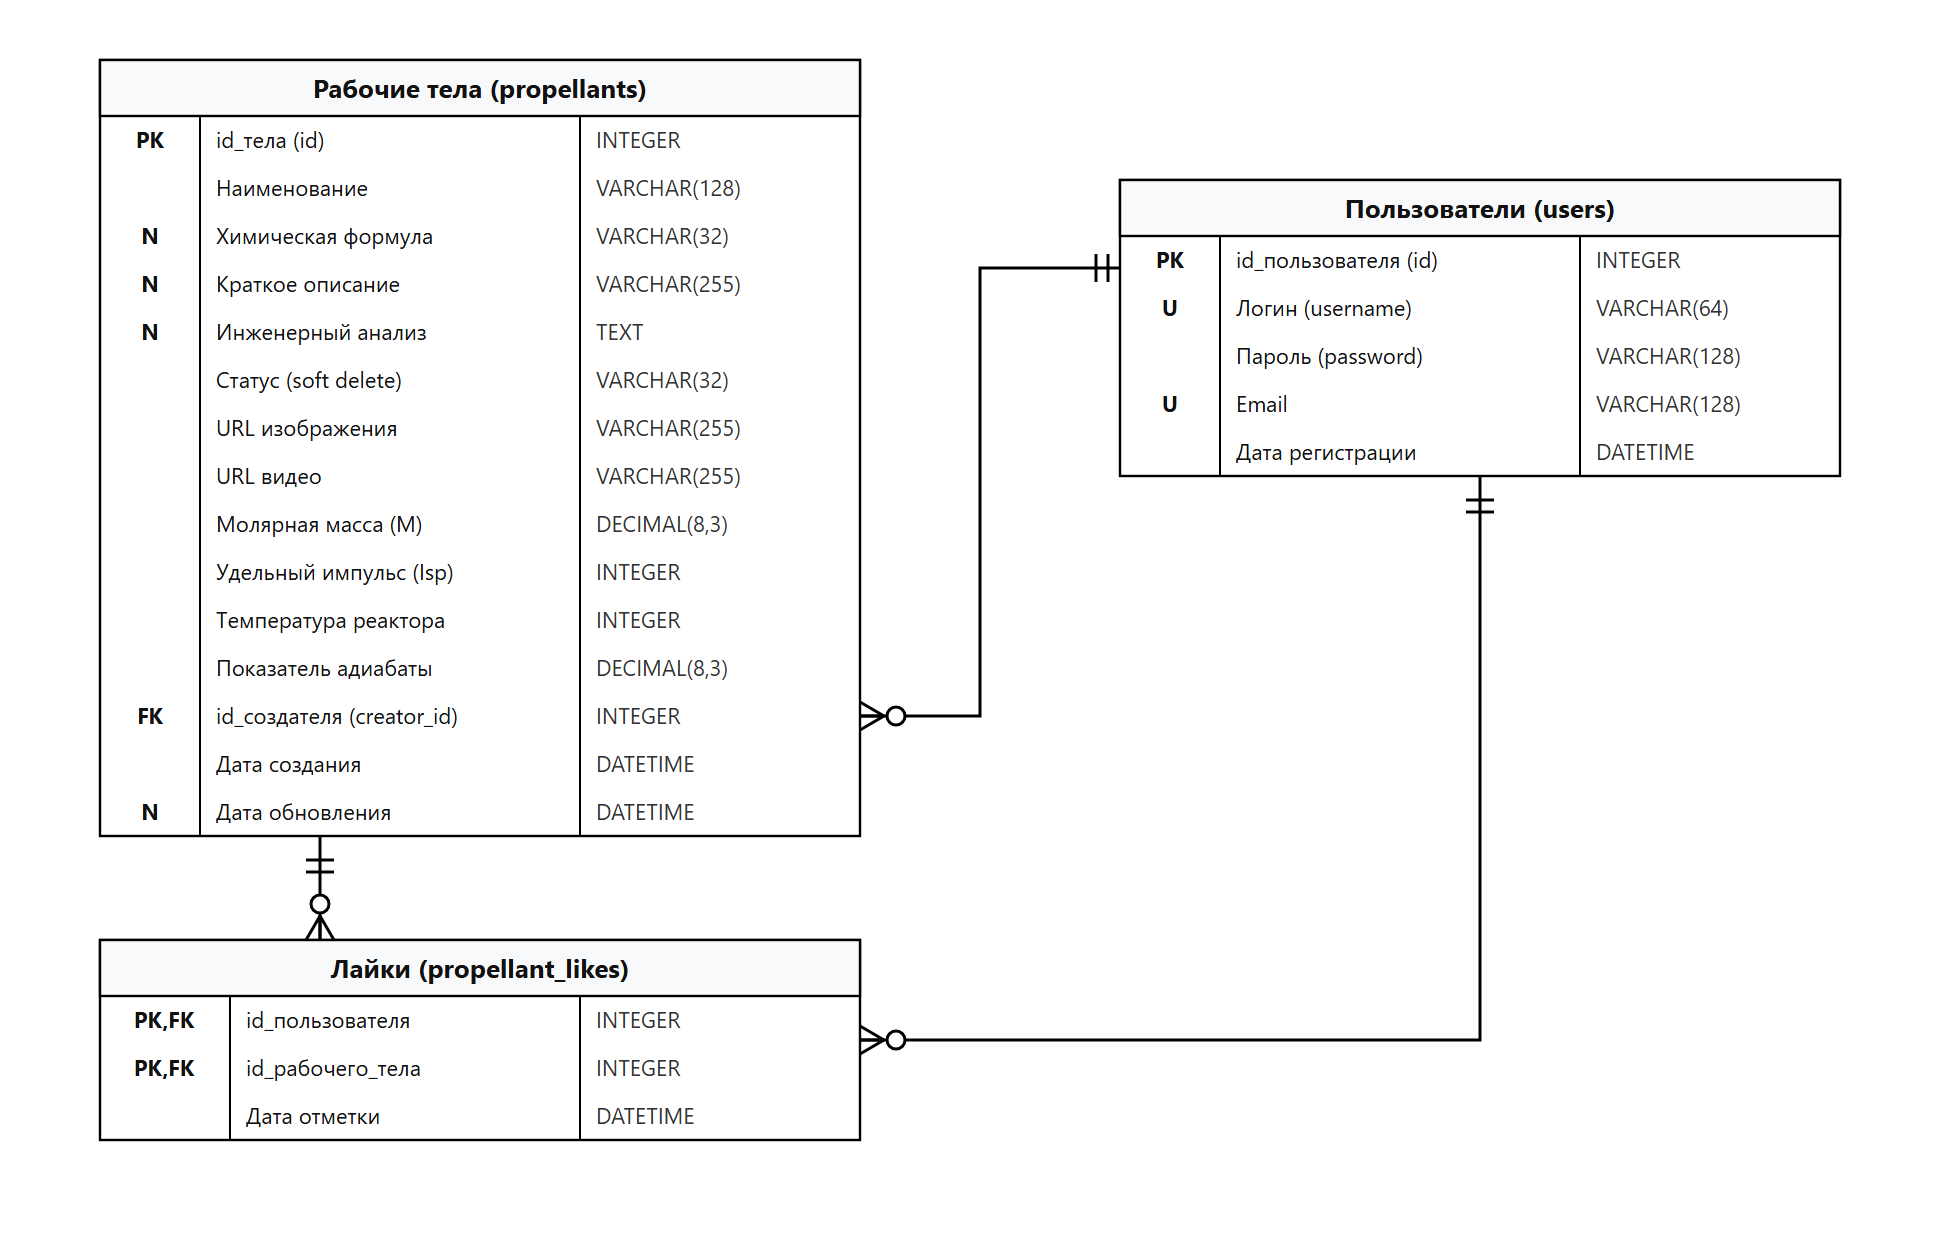
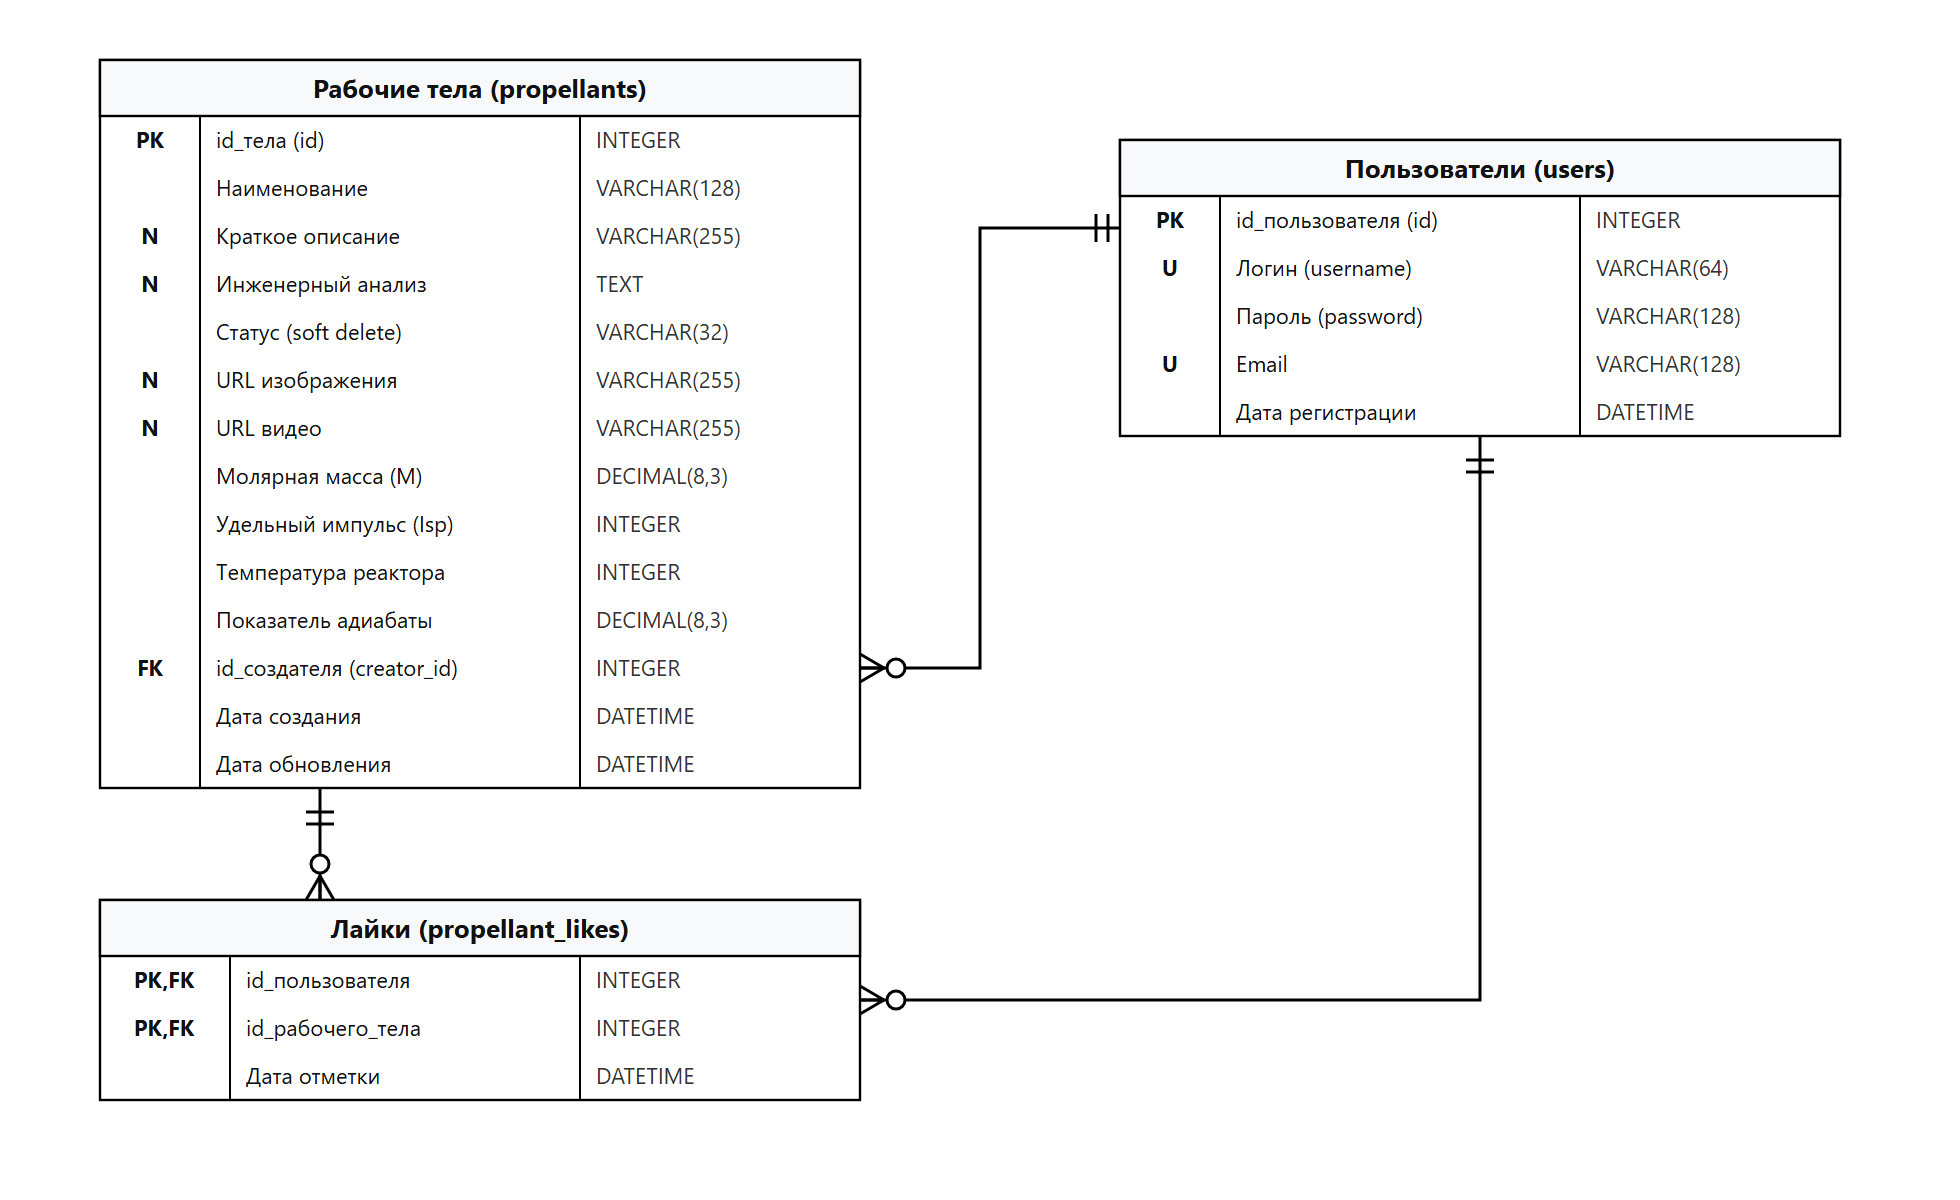
fix

Changed region(s): [[0.0311, 0.0308, 0.7469, 0.925], [0.498, 0.0925, 0.9337, 0.4317], [0.4357, 0.555, 0.498, 0.5858]]

diff --git a/src/propellants/propellants.service.ts b/src/propellants/propellants.service.ts
@@ -21,7 +21,6 @@ export interface FeedResult {
 
 export interface SavePropellantDto {
   name?: string;
-  chemicalFormula?: string;
   shortDescription?: string;
   engineeringAnalysis?: string;
   molarMass?: number;
@@ -171,8 +170,6 @@ export class PropellantsService {
 
     if (draft) {
       if (dto.name) draft.name = dto.name;
-      if (dto.chemicalFormula !== undefined)
-        draft.chemicalFormula = dto.chemicalFormula;
       if (dto.shortDescription !== undefined)
         draft.shortDescription = dto.shortDescription;
       if (dto.engineeringAnalysis !== undefined)
@@ -199,7 +196,6 @@ export class PropellantsService {
 
     const newDraft = this.propellantRepo.create({
       name: dto.name || 'Новое рабочее тело',
-      chemicalFormula: dto.chemicalFormula || null,
       shortDescription: dto.shortDescription || '',
       engineeringAnalysis: dto.engineeringAnalysis || '',
       status: 'draft',
@@ -225,8 +221,6 @@ export class PropellantsService {
 
     if (draft) {
       if (dto.name) draft.name = dto.name;
-      if (dto.chemicalFormula !== undefined)
-        draft.chemicalFormula = dto.chemicalFormula;
       if (dto.shortDescription !== undefined)
         draft.shortDescription = dto.shortDescription;
       if (dto.engineeringAnalysis !== undefined)
@@ -254,7 +248,6 @@ export class PropellantsService {
 
     const newPropellant = this.propellantRepo.create({
       name: dto.name || 'Новое рабочее тело',
-      chemicalFormula: dto.chemicalFormula || null,
       shortDescription: dto.shortDescription || '',
       engineeringAnalysis: dto.engineeringAnalysis || '',
       status: 'published',

diff --git a/src/propellants/propellant-draft.controller.ts b/src/propellants/propellant-draft.controller.ts
@@ -27,7 +27,6 @@ export class PropellantDraftController {
   ) {
     await this.propellantsService.saveUserDraft(this.defaultUserId, {
       name: name || 'Новое рабочее тело',
-      chemicalFormula: null,
       shortDescription: '',
       molarMass: 16.04,
       reactorTemperatureK: 2600,
@@ -54,7 +53,6 @@ export class PropellantDraftController {
 
     await this.propellantsService.publishDraft(this.defaultUserId, {
       name: name || 'Новое рабочее тело',
-      chemicalFormula: null,
       shortDescription: short_description || '',
       molarMass: parsedMolarMass,
       reactorTemperatureK: 2600,

diff --git a/src/propellants/entities/propellant.entity.ts b/src/propellants/entities/propellant.entity.ts
@@ -21,9 +21,6 @@ export class Propellant {
   @Column({ type: 'varchar', length: 128 })
   name: string;
 
-  @Column({ type: 'varchar', length: 32, name: 'chemical_formula', nullable: true })
-  chemicalFormula: string;
-
   @Column({ type: 'varchar', length: 255, name: 'short_description', nullable: true })
   shortDescription: string;
 

diff --git a/src/propellants/propellant.interface.ts b/src/propellants/propellant.interface.ts
@@ -3,7 +3,6 @@ export type PropellantStatus = 'draft' | 'published' | 'deleted';
 export interface Propellant {
   propellant_id: string;
   propellant_name: string;
-  chemical_formula: string;
   molar_mass_g_mol: number;
   reactor_temperature_k: number;
   specific_heat_ratio: number;

diff --git a/README.md b/README.md
@@ -61,8 +61,7 @@ npm run start
 | Поле | Тип данных | Ограничения | Описание |
 | :--- | :--- | :--- | :--- |
 | `id` | `SERIAL` | `PRIMARY KEY` | Уникальный идентификатор рабочего тела |
-| `name` | `VARCHAR(100)` | `NOT NULL` | Наименование рабочего тела (с химической формулой) |
-| `chemical_formula` | `VARCHAR(32)` | `NULL` | Химическая формула (опционально) |
+| `name` | `VARCHAR(128)` | `NOT NULL` | Наименование рабочего тела |
 | `short_description`| `TEXT` | `NULL` | Краткое описание физико-химических свойств |
 | `engineering_analysis` | `TEXT` | `NULL` | Детальный инженерный термодинамический анализ |
 | `status` | `VARCHAR(20)` | `NOT NULL, CHECK (status IN ('draft', 'published', 'deleted'))` | Жизненный цикл записи |
